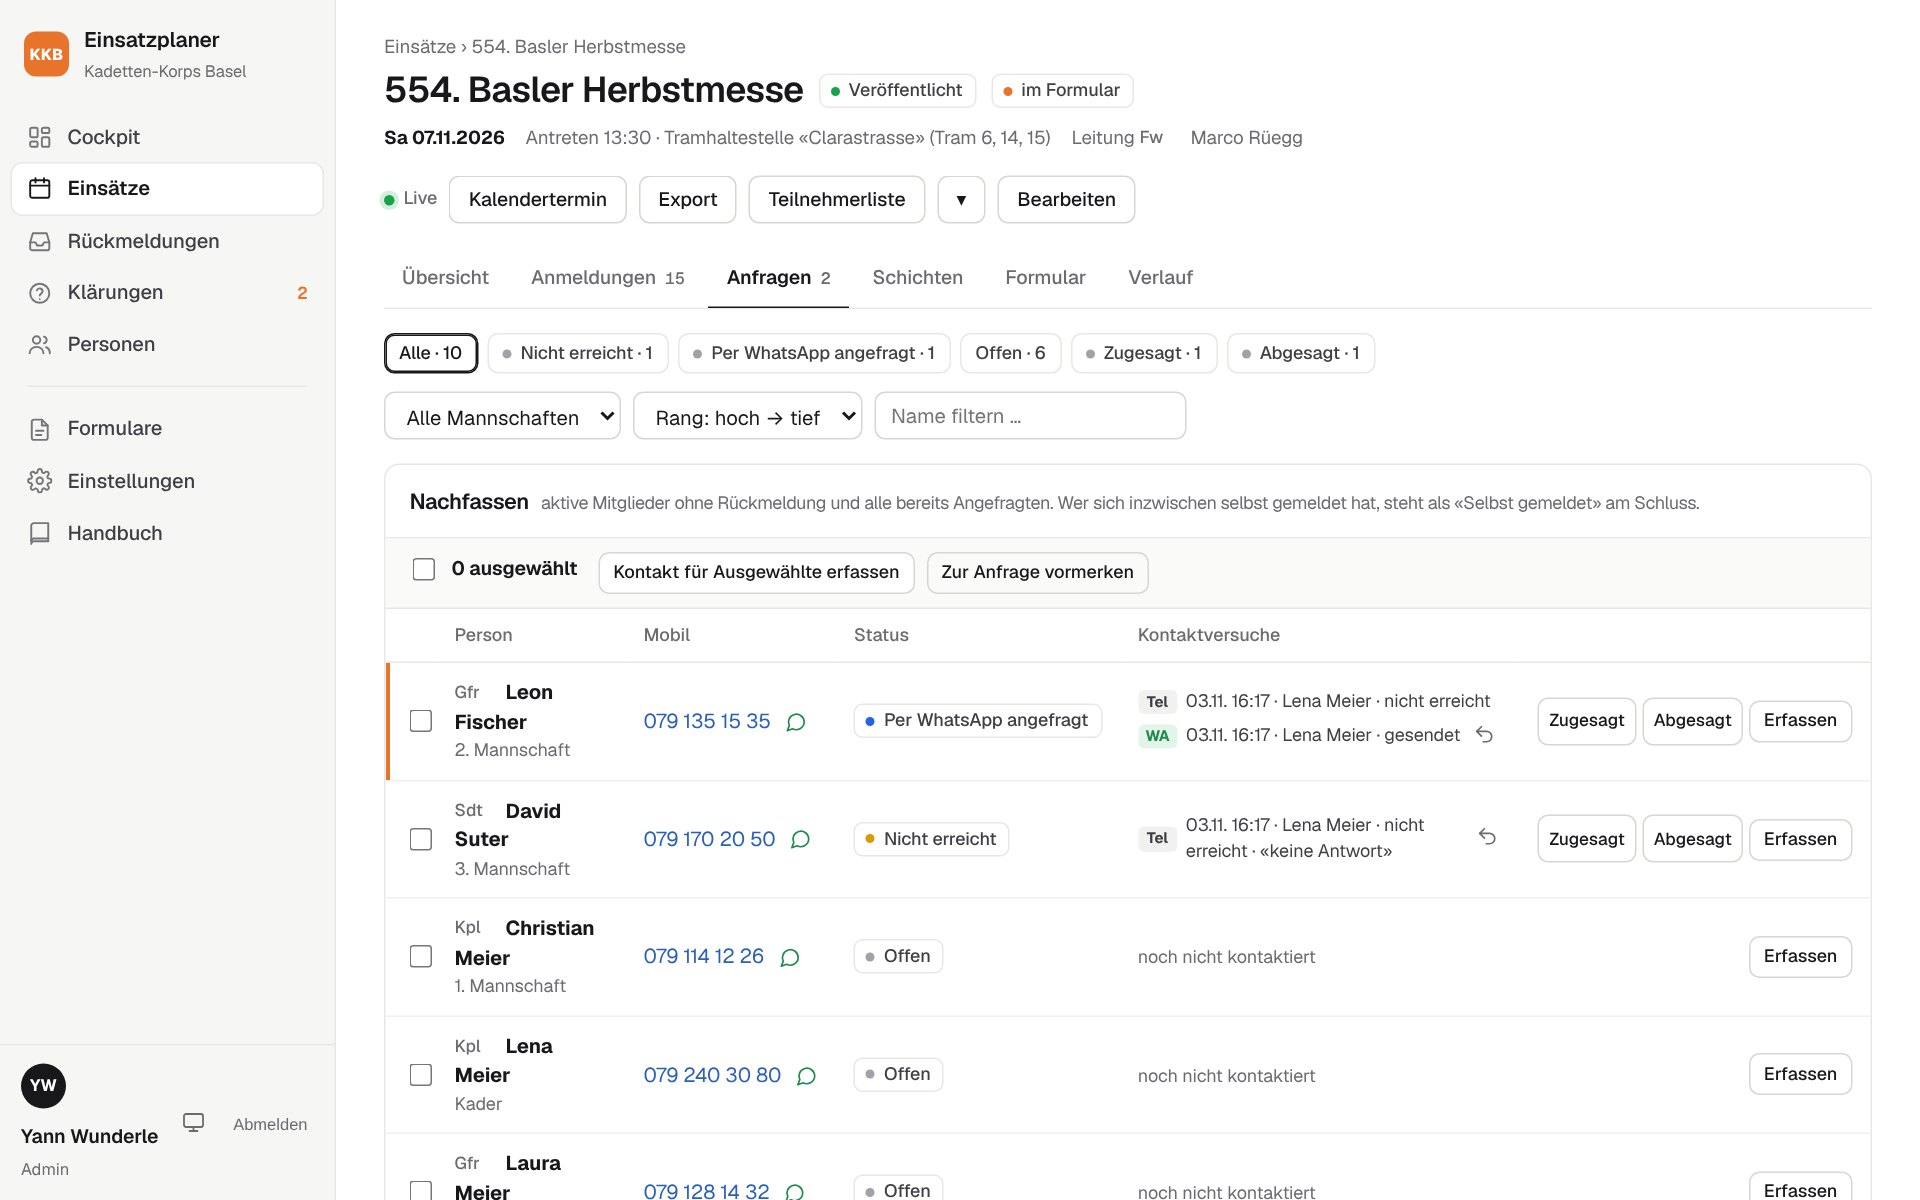
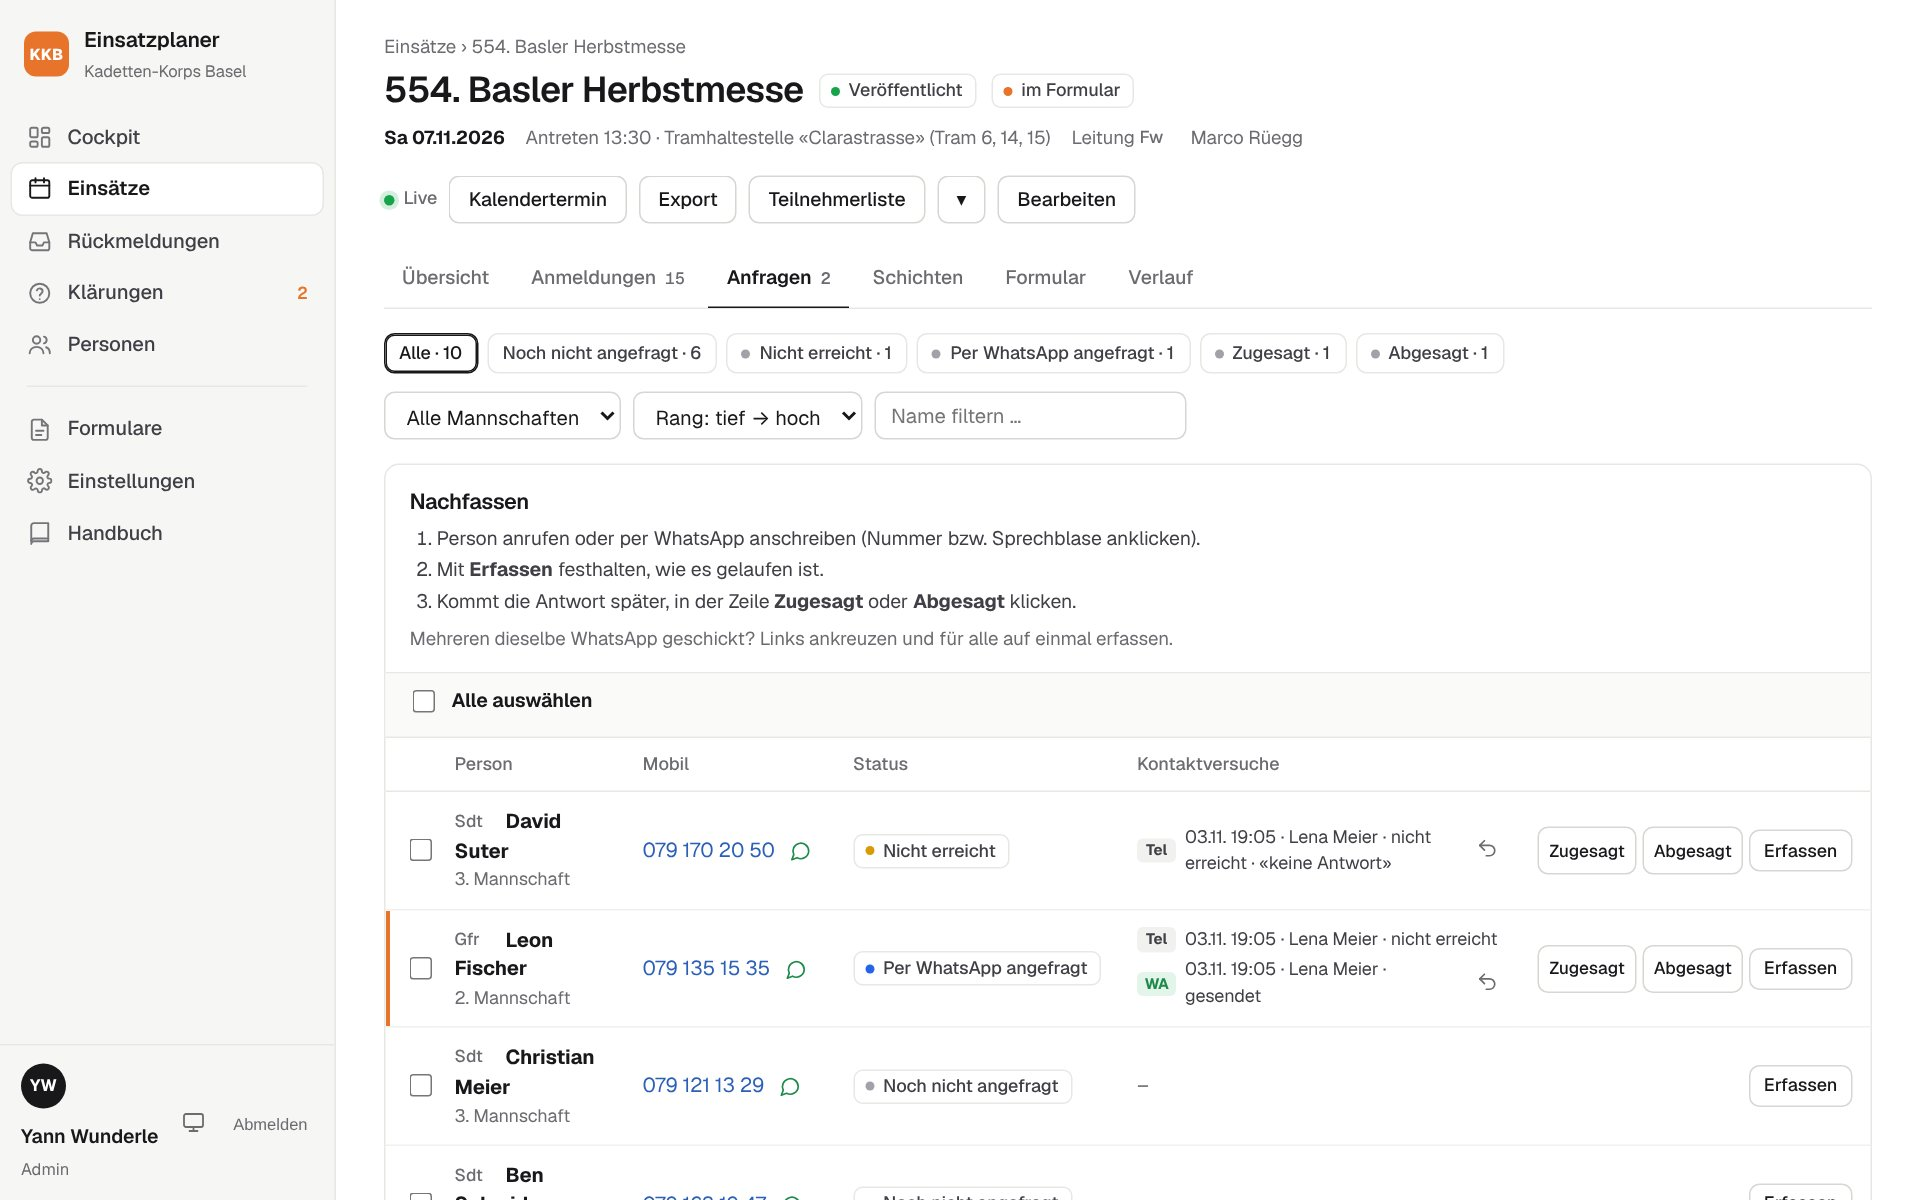
Anfragen-Reiter verständlicher: Vormerken entfernt, «Noch nicht angefragt», kurze Anleitung
- «Zur Anfrage vormerken» und der Status «Vorgesehen» fallen weg (nur Merkliste ohne Wirkung)
- Status «Offen» heisst jetzt «Noch nicht angefragt»; Filter zeigt genau so viele wie der Zähler
- Oben drei Schritte, wie Nachfassen geht
- Knopf für Mehrere erscheint erst beim Ankreuzen: «Kontakt für N Personen erfassen»
- «Alles zurücksetzen» im Sammel-Fenster wirklich ausgeblendet
- Handbuch Kapitel 11 und Bild nachgeführt

Claude-Session: https://claude.ai/code/session_01EBemczoFwM4bMA9yma6mkF

diff --git a/src/services/inquiries.js b/src/services/inquiries.js
@@ -21,13 +21,12 @@ function attemptsFor(inquiryIds) {
 }
 
 // Anzeige-Status einer Zeile im Reiter «Anfragen»:
-// «angemeldet» = hat sich inzwischen selbst gemeldet (Formular oder anders), «vorgesehen» = zur Anfrage vorgemerkt, noch kein Kontakt
+// «angemeldet» = hat sich inzwischen selbst gemeldet (Formular oder anders), «offen» = noch nicht angefragt
 function rowState(r) {
   if (r.reg_id && r.inquiry_status !== 'zugesagt') return 'angemeldet';
-  if (r.inquiry_status === 'offen' && r.inquiry_id && !r.attempts.length) return 'vorgesehen';
   return r.inquiry_status;
 }
-const ROW_ORDER = { nicht_erreicht: 0, whatsapp: 0, unsicher: 0, vorgesehen: 1, offen: 2, zugesagt: 3, angemeldet: 4, abgesagt: 5 };
+const ROW_ORDER = { nicht_erreicht: 0, whatsapp: 0, unsicher: 0, offen: 2, zugesagt: 3, angemeldet: 4, abgesagt: 5 };
 
 /**
  * Reiter «Anfragen»: alle aktiven Personen ohne Anmeldung zu diesem Einsatz
@@ -60,7 +59,7 @@ function listForEvent(eventId, { status = '', team = '', q = '', sort = 'rang' }
   const counts = {};
   for (const r of out) counts[r.state] = (counts[r.state] || 0) + 1;
   const total = out.length;
-  if (status) out = out.filter((r) => r.state === status || (status === 'offen' && r.state === 'vorgesehen'));
+  if (status) out = out.filter((r) => r.state === status);
   out.sort((a, b) => (ROW_ORDER[a.state] ?? 2) - (ROW_ORDER[b.state] ?? 2));
   return Object.assign(out, { counts, total });
 }
@@ -80,12 +79,6 @@ function ensureInquiry(eventId, personId, user) {
     inq = db.one('SELECT * FROM inquiries WHERE event_id = ? AND person_id = ?', eventId, personId);
   }
   return inq;
-}
-
-// Person zur Anfrage vorsehen (Status «Offen»)
-function plan(eventId, personIds, user) {
-  for (const pid of personIds) ensureInquiry(eventId, Number(pid), user);
-  live.notify(`event:${eventId}`, 'feedback');
 }
 
 /**
@@ -225,4 +218,4 @@ function resetPerson(eventId, personId, user) {
   });
 }
 
-module.exports = { listForEvent, forPerson, plan, addAttempt, setStatus, removeAttempt, resetPerson, attemptLabel };
+module.exports = { listForEvent, forPerson, addAttempt, setStatus, removeAttempt, resetPerson, attemptLabel };

diff --git a/public/css/ruhig.css b/public/css/ruhig.css
@@ -234,3 +234,10 @@ td .sub, .cell-sub { font-size: 12px; margin-top: 1px; }
 .prose blockquote::before { content: ""; position: absolute; left: 12px; top: 18px; width: 6px; height: 6px; border-radius: 50%; background: var(--signal); }
 .prose th { background: var(--surface-2); }
 .prose img { border-color: var(--line); }
+
+/* ---------- Anfragen: kurze Anleitung und Auswahlleiste ---------- */
+.nachfassen-head { flex-direction: column; align-items: flex-start; gap: 6px; }
+.nachfassen-steps { margin: 0; padding-left: 18px; font-size: 13px; color: var(--text-2); display: grid; gap: 2px; }
+.nachfassen-head .hint { margin: 0; font-size: 12.5px; }
+.bulkbar [hidden], dialog .btn[hidden] { display: none !important; }
+@media print { .nachfassen-steps, .nachfassen-head .hint { display: none; } }

diff --git a/public/js/app.js b/public/js/app.js
@@ -159,7 +159,12 @@
   function updateSelected(form) {
     const n = $$(`input[type=checkbox][form="${form.id}"]:checked`).length;
     const el = form.querySelector('[data-selected-count]');
-    if (el) el.textContent = `${n} ausgewählt`;
+    if (el) el.textContent = n || !el.dataset.emptyText ? `${n} ausgewählt` : el.dataset.emptyText;
+    // Knöpfe, die erst mit einer Auswahl Sinn ergeben, erscheinen erst dann – mit der Anzahl im Text
+    $$('[data-needs-selection]', form).forEach((b) => {
+      b.hidden = !n;
+      if (b.dataset.countText) b.textContent = b.dataset.countText.replace('{n}', `${n} Person${n === 1 ? '' : 'en'}`);
+    });
   }
 
   // Rückfragen vor dem Absenden. Das Absenden wird angehalten, die Fragen nacheinander gestellt

diff --git a/src/routes/events.js b/src/routes/events.js
@@ -401,13 +401,6 @@ router.post('/einsaetze/:id/anfragen/versuch/:aid/loeschen', loadEvent, (req, re
   res.redirect(`/einsaetze/${req.event.id}/anfragen`);
 });
 
-router.post('/einsaetze/:id/anfragen/vorsehen', loadEvent, (req, res) => {
-  const ids = [].concat(req.body.person_ids || []);
-  inquiries.plan(req.event.id, ids, req.user);
-  flash(res, 'success', `${ids.length} Person${ids.length === 1 ? '' : 'en'} zur Anfrage vorgesehen.`);
-  res.redirect(`/einsaetze/${req.event.id}/anfragen`);
-});
-
 // Reiter «Schichten»
 router.get('/einsaetze/:id/schichten', loadEvent, (req, res) => {
   const e = req.event;

diff --git a/src/lib/labels.js b/src/lib/labels.js
@@ -34,7 +34,7 @@ const MATCH_TYPE = {
 };
 
 const INQUIRY_STATUS = {
-  offen: { label: 'Offen', tone: 'gray' },
+  offen: { label: 'Noch nicht angefragt', tone: 'gray' },
   zugesagt: { label: 'Zugesagt', tone: 'green' },
   abgesagt: { label: 'Abgesagt', tone: 'red' },
   nicht_erreicht: { label: 'Nicht erreicht', tone: 'yellow' },
@@ -44,7 +44,6 @@ const INQUIRY_STATUS = {
 
 // Zusätzliche Anzeige-Status im Reiter «Anfragen»
 const INQUIRY_ROW = {
-  vorgesehen: { label: 'Vorgesehen', tone: 'gray' },
   angemeldet: { label: 'Selbst gemeldet', tone: 'green' },
 };
 

diff --git a/docs/handbuch/handbuch.md b/docs/handbuch/handbuch.md
@@ -337,26 +337,30 @@ Der Reiter **Anfragen** zeigt alle aktiven Mitglieder, die sich für diesen Eins
 
 ![Einsatz › Anfragen](bilder/11-anfragen.jpg)
 
-- **Zähler pro Status** oben filtern die Liste mit einem Klick. Daneben Mannschaft, Sortierung nach Rang und Namenssuche.
-- Die **Mobilnummer** ist ein Anruf-Link; das Sprechblasen-Symbol daneben öffnet direkt den **WhatsApp-Chat**.
+**So geht Nachfassen** (steht auch oben im Reiter):
+
+1. Person anrufen oder per WhatsApp anschreiben. Die **Mobilnummer** ist ein Anruf-Link, das Sprechblasen-Symbol daneben öffnet direkt den **WhatsApp-Chat**.
+2. Mit **Erfassen** festhalten, wie es gelaufen ist (z. B. «nicht erreicht» oder «Nachricht gesendet»).
+3. Kommt die Antwort später, in der Zeile **Zugesagt** oder **Abgesagt** klicken.
+
+Weitere Hilfen im Reiter:
+
+- **Filter oben:** Ein Klick zeigt nur die Personen mit diesem Status, z. B. **Noch nicht angefragt** = alle, die noch niemand kontaktiert hat. **Alle** zeigt wieder die ganze Liste. Daneben Mannschaft, Sortierung nach Rang und Namenssuche.
 - **Kontaktversuche** stehen mit Kanal (Tel / WA), Datum, Uhrzeit, wer es war, Ergebnis und Notiz.
-- **Erfassen** öffnet das Fenster für einen neuen Kontaktversuch.
-- **Zugesagt / Abgesagt** direkt in der Zeile, wenn die Antwort nach einem Anruf oder einer WhatsApp kommt.
 - Der **Pfeil** beim letzten Kontaktversuch nimmt ihn zurück, falls er falsch erfasst wurde. Hat er eine Anmeldung erzeugt, wird diese mitgelöscht.
-- **Mehrere auf einmal:** Personen ankreuzen und **Kontakt für Ausgewählte erfassen**, z. B. «WhatsApp an alle gesendet». **Zur Anfrage vormerken** merkt Personen vor, ohne einen Kontakt zu erfassen.
+- **Mehrere auf einmal:** Hat man mehreren dieselbe WhatsApp geschickt, kreuzt man sie links an. Dann erscheint der Knopf **Kontakt für 3 Personen erfassen** (mit der Anzahl), und man erfasst den Kontakt für alle in einem Schritt. **Alle auswählen** kreuzt die ganze (gefilterte) Liste an.
 
 ![Kontaktversuch erfassen](bilder/12-kontaktversuch.jpg)
 
 Im Fenster wählt man Kanal, Datum und Uhrzeit (vorausgefüllt mit jetzt), **Gesendet von** (vorausgefüllt mit dem eigenen Namen, änderbar), das Ergebnis und eine Notiz. Bei «Zugesagt» und einem Einsatz mit mehreren Schichten wählt man zusätzlich die Schichten.
 
-**Alles zurücksetzen:** Unten links im Fenster löscht **Alles zurücksetzen** für diese Person und diesen Einsatz alle Kontaktversuche, die Rückmeldung bzw. Anmeldung und die Schichtzuteilung. Die Person gilt danach wieder als offen. Vorher fragt der Einsatzplaner nach. Ein Formular-Eingang bleibt unter «Formulare» gespeichert. Bei Personen, die schon zugesagt haben oder selbst gemeldet sind, steht dafür in der Anfragen-Liste rechts das Symbol ↶. Einen einzelnen falsch erfassten Kontaktversuch nimmt man dagegen mit dem ↶ direkt neben dem Versuch zurück.
+**Alles zurücksetzen:** Unten links im Fenster löscht **Alles zurücksetzen** für diese Person und diesen Einsatz alle Kontaktversuche, die Rückmeldung bzw. Anmeldung und die Schichtzuteilung. Die Person steht danach wieder als «Noch nicht angefragt» in der Liste. Vorher fragt der Einsatzplaner nach. Ein Formular-Eingang bleibt unter «Formulare» gespeichert. Bei Personen, die schon zugesagt haben oder selbst gemeldet sind, steht dafür in der Anfragen-Liste rechts das Symbol ↶. Einen einzelnen falsch erfassten Kontaktversuch nimmt man dagegen mit dem ↶ direkt neben dem Versuch zurück.
 
 ### Das Ergebnis einer Anfrage
 
 | Status | Bedeutung | Was danach passiert |
 |---|---|---|
-| Offen | Noch nicht kontaktiert | – |
-| Vorgemerkt | Zur Anfrage vorgemerkt, noch kein Kontakt | – |
+| Noch nicht angefragt | Noch niemand hat die Person kontaktiert | – |
 | Nicht erreicht | Telefonisch nicht erreicht | Bleibt oben in der Liste zum Nachfassen |
 | Per WhatsApp angefragt | Nachricht gesendet, Antwort offen | Kommt die Antwort, «Zugesagt» oder «Abgesagt» klicken |
 | Unsicher | «Weiss es noch nicht» | Bleibt ein offener Fall, bis die Antwort kommt |
